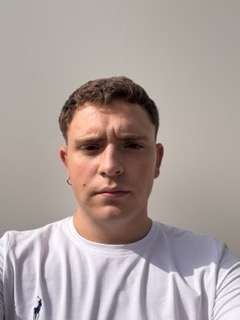
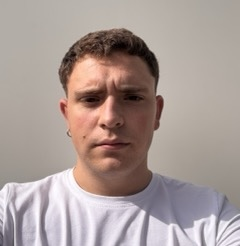
Aggiunte foto BELLE

Changed region(s): [[0.0, 0.6545, 1.0, 1.0], [0.2333, 0.1138, 0.7, 0.626], [0.6708, 0.9675, 0.7, 0.9959]]

diff --git a/README.md b/README.md
@@ -1,15 +1,8 @@
 # cargoservice
 Repository per l'esame di Ingegneria dei Sistemi Software 2025
-
-
 ## Indice
-## Requisiti
 ## Team di Lavoro
-#### Luca Capelli - luca.capelli3@studio.unibo.it
-<img src="images/luca_pic.jpeg" alt="Luca profile picture" width="20%">
 
-#### Jacopo Chergui - jacopo.chergui@studio.unibo.it
-<img src="images/jacopo_pic.jpeg" alt="Jacopo profile picture" width="20%">
-
-#### Nicolò Venieri - nicolo.venieri2@studio.unibo.it
-<img src="images/nicolo_pic.jpeg" alt="Nicolo profile picture" width="20%">
+| <img src="images/luca_pic.jpeg" width="150"/> | <img src="images/jacopo_pic.jpeg" width="150"/> | <img src="images/nicolo_pic.jpeg" width="150"/> |
+|-----------------------|-----------------------|-----------------------|
+| Luca Capelli          | Jacopo Chergui        | Nicolò Venieri        |
